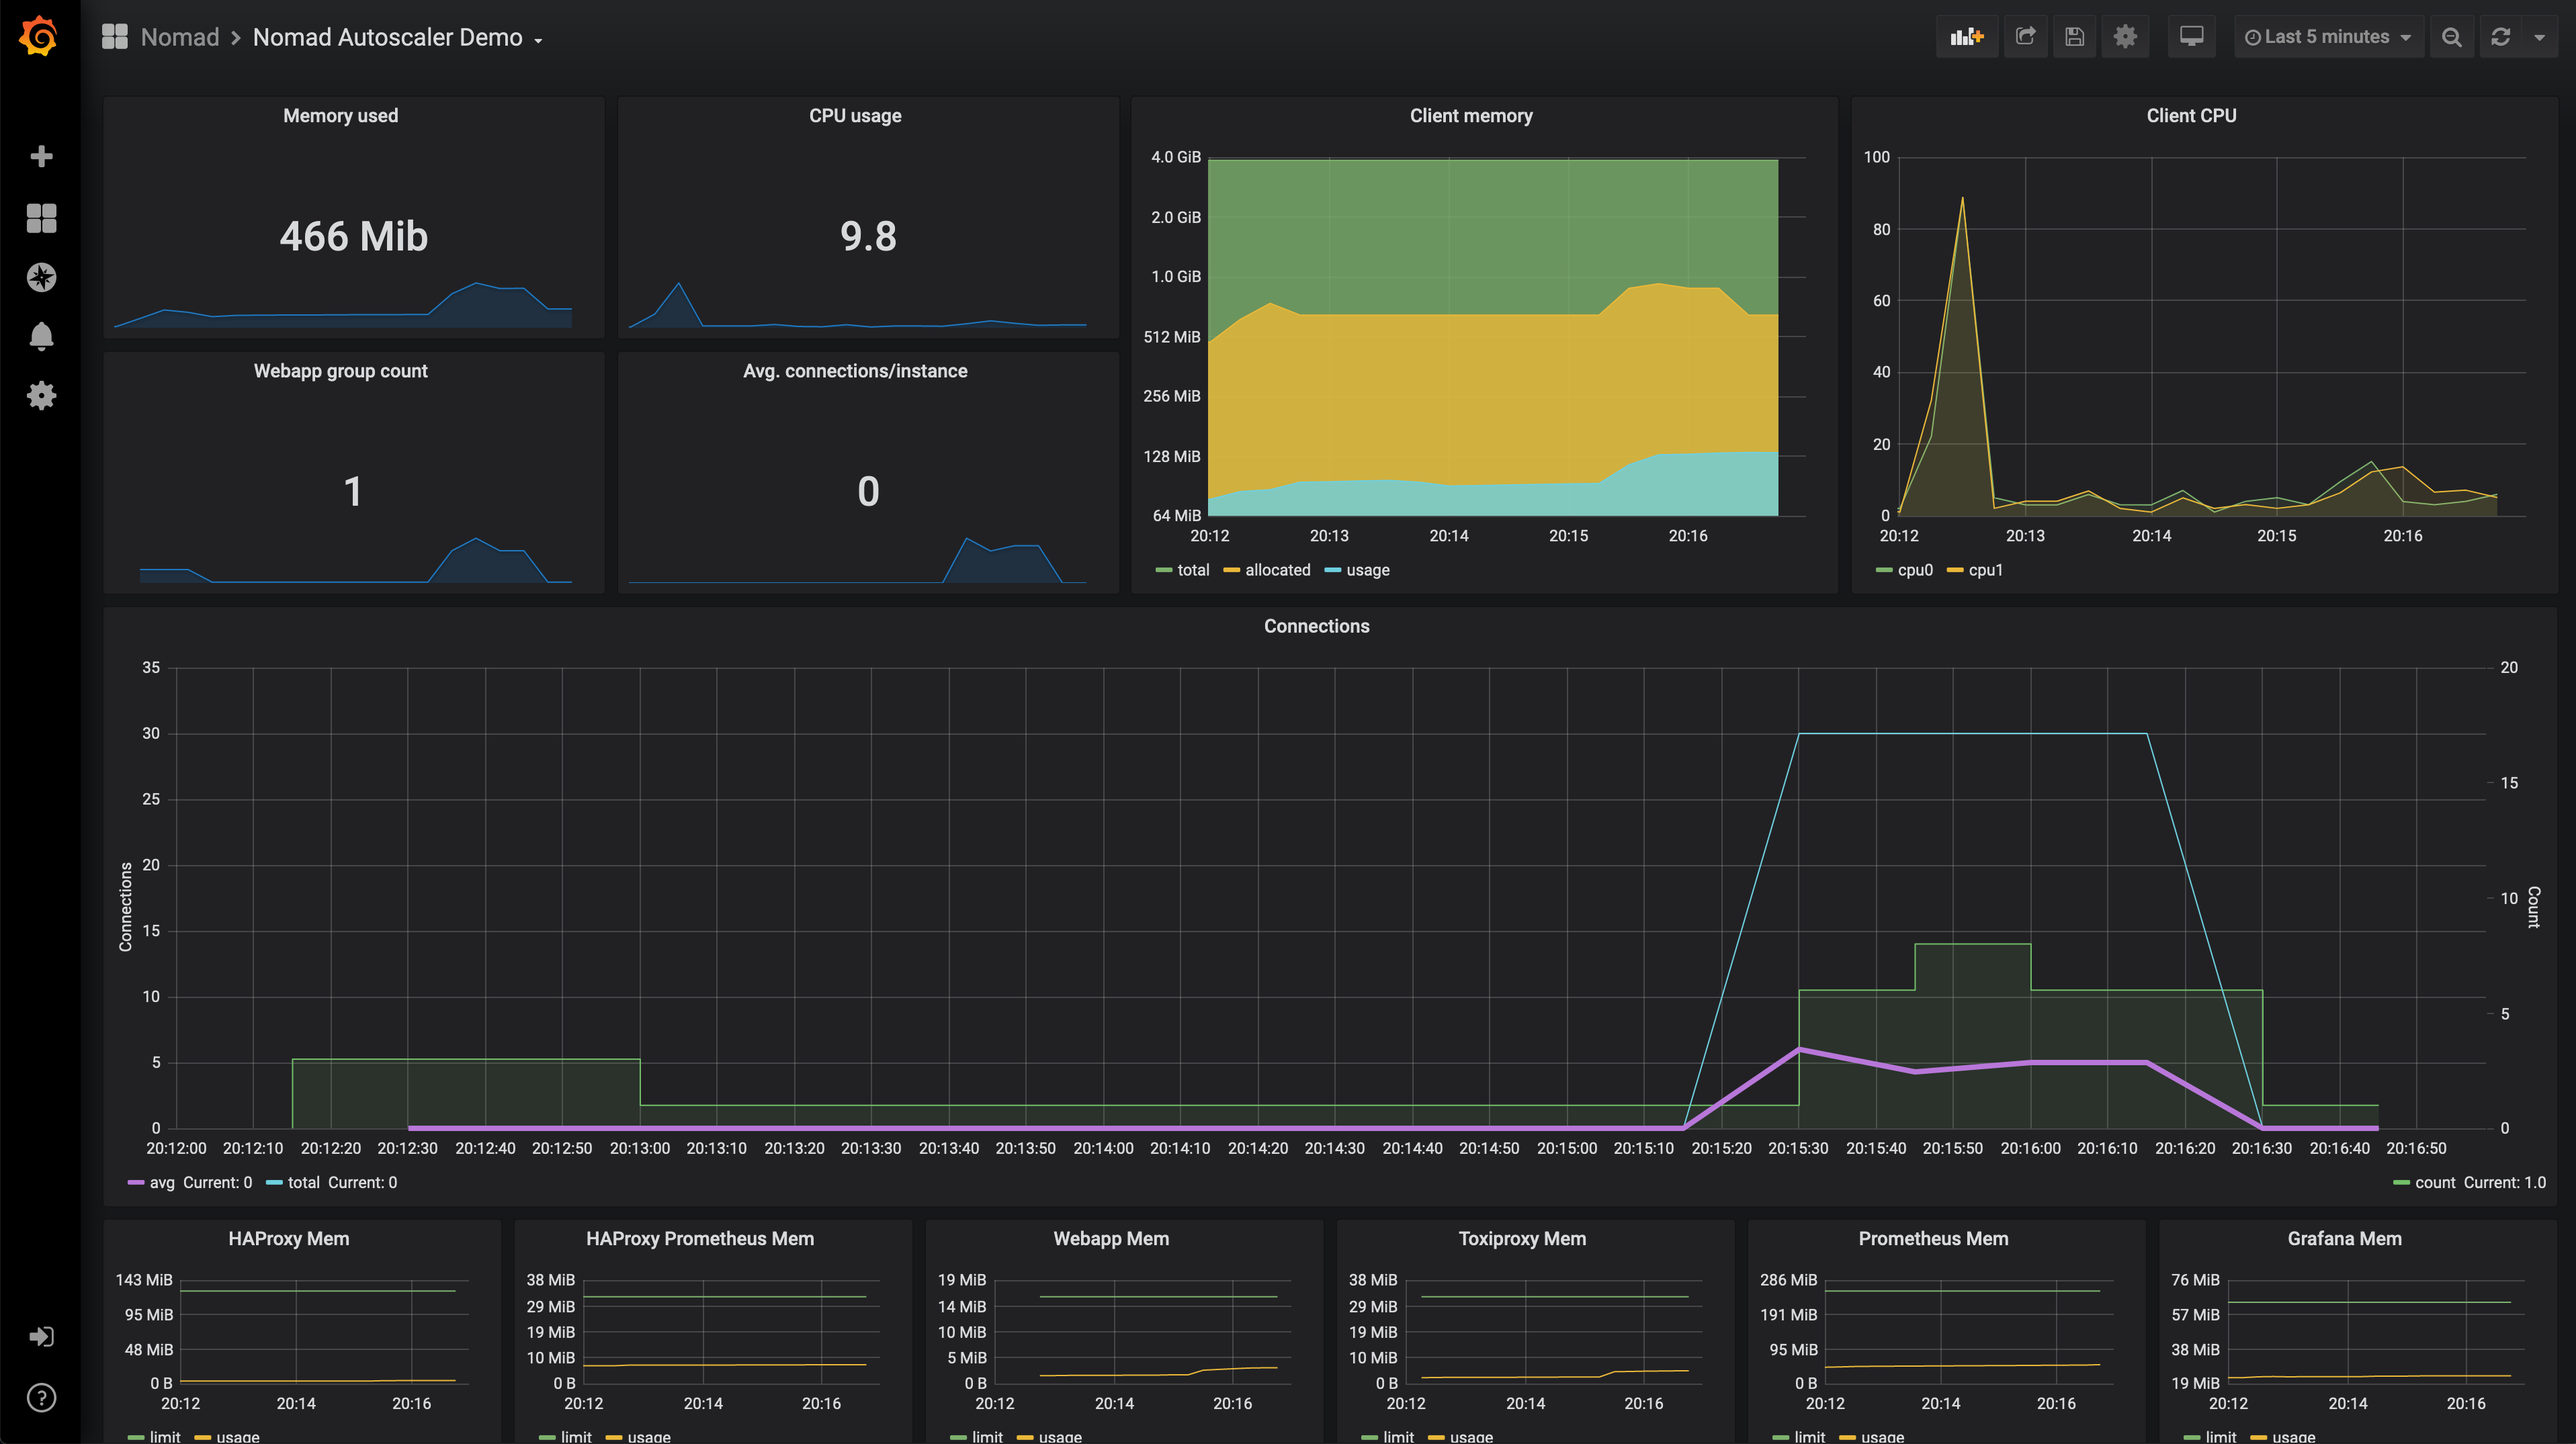
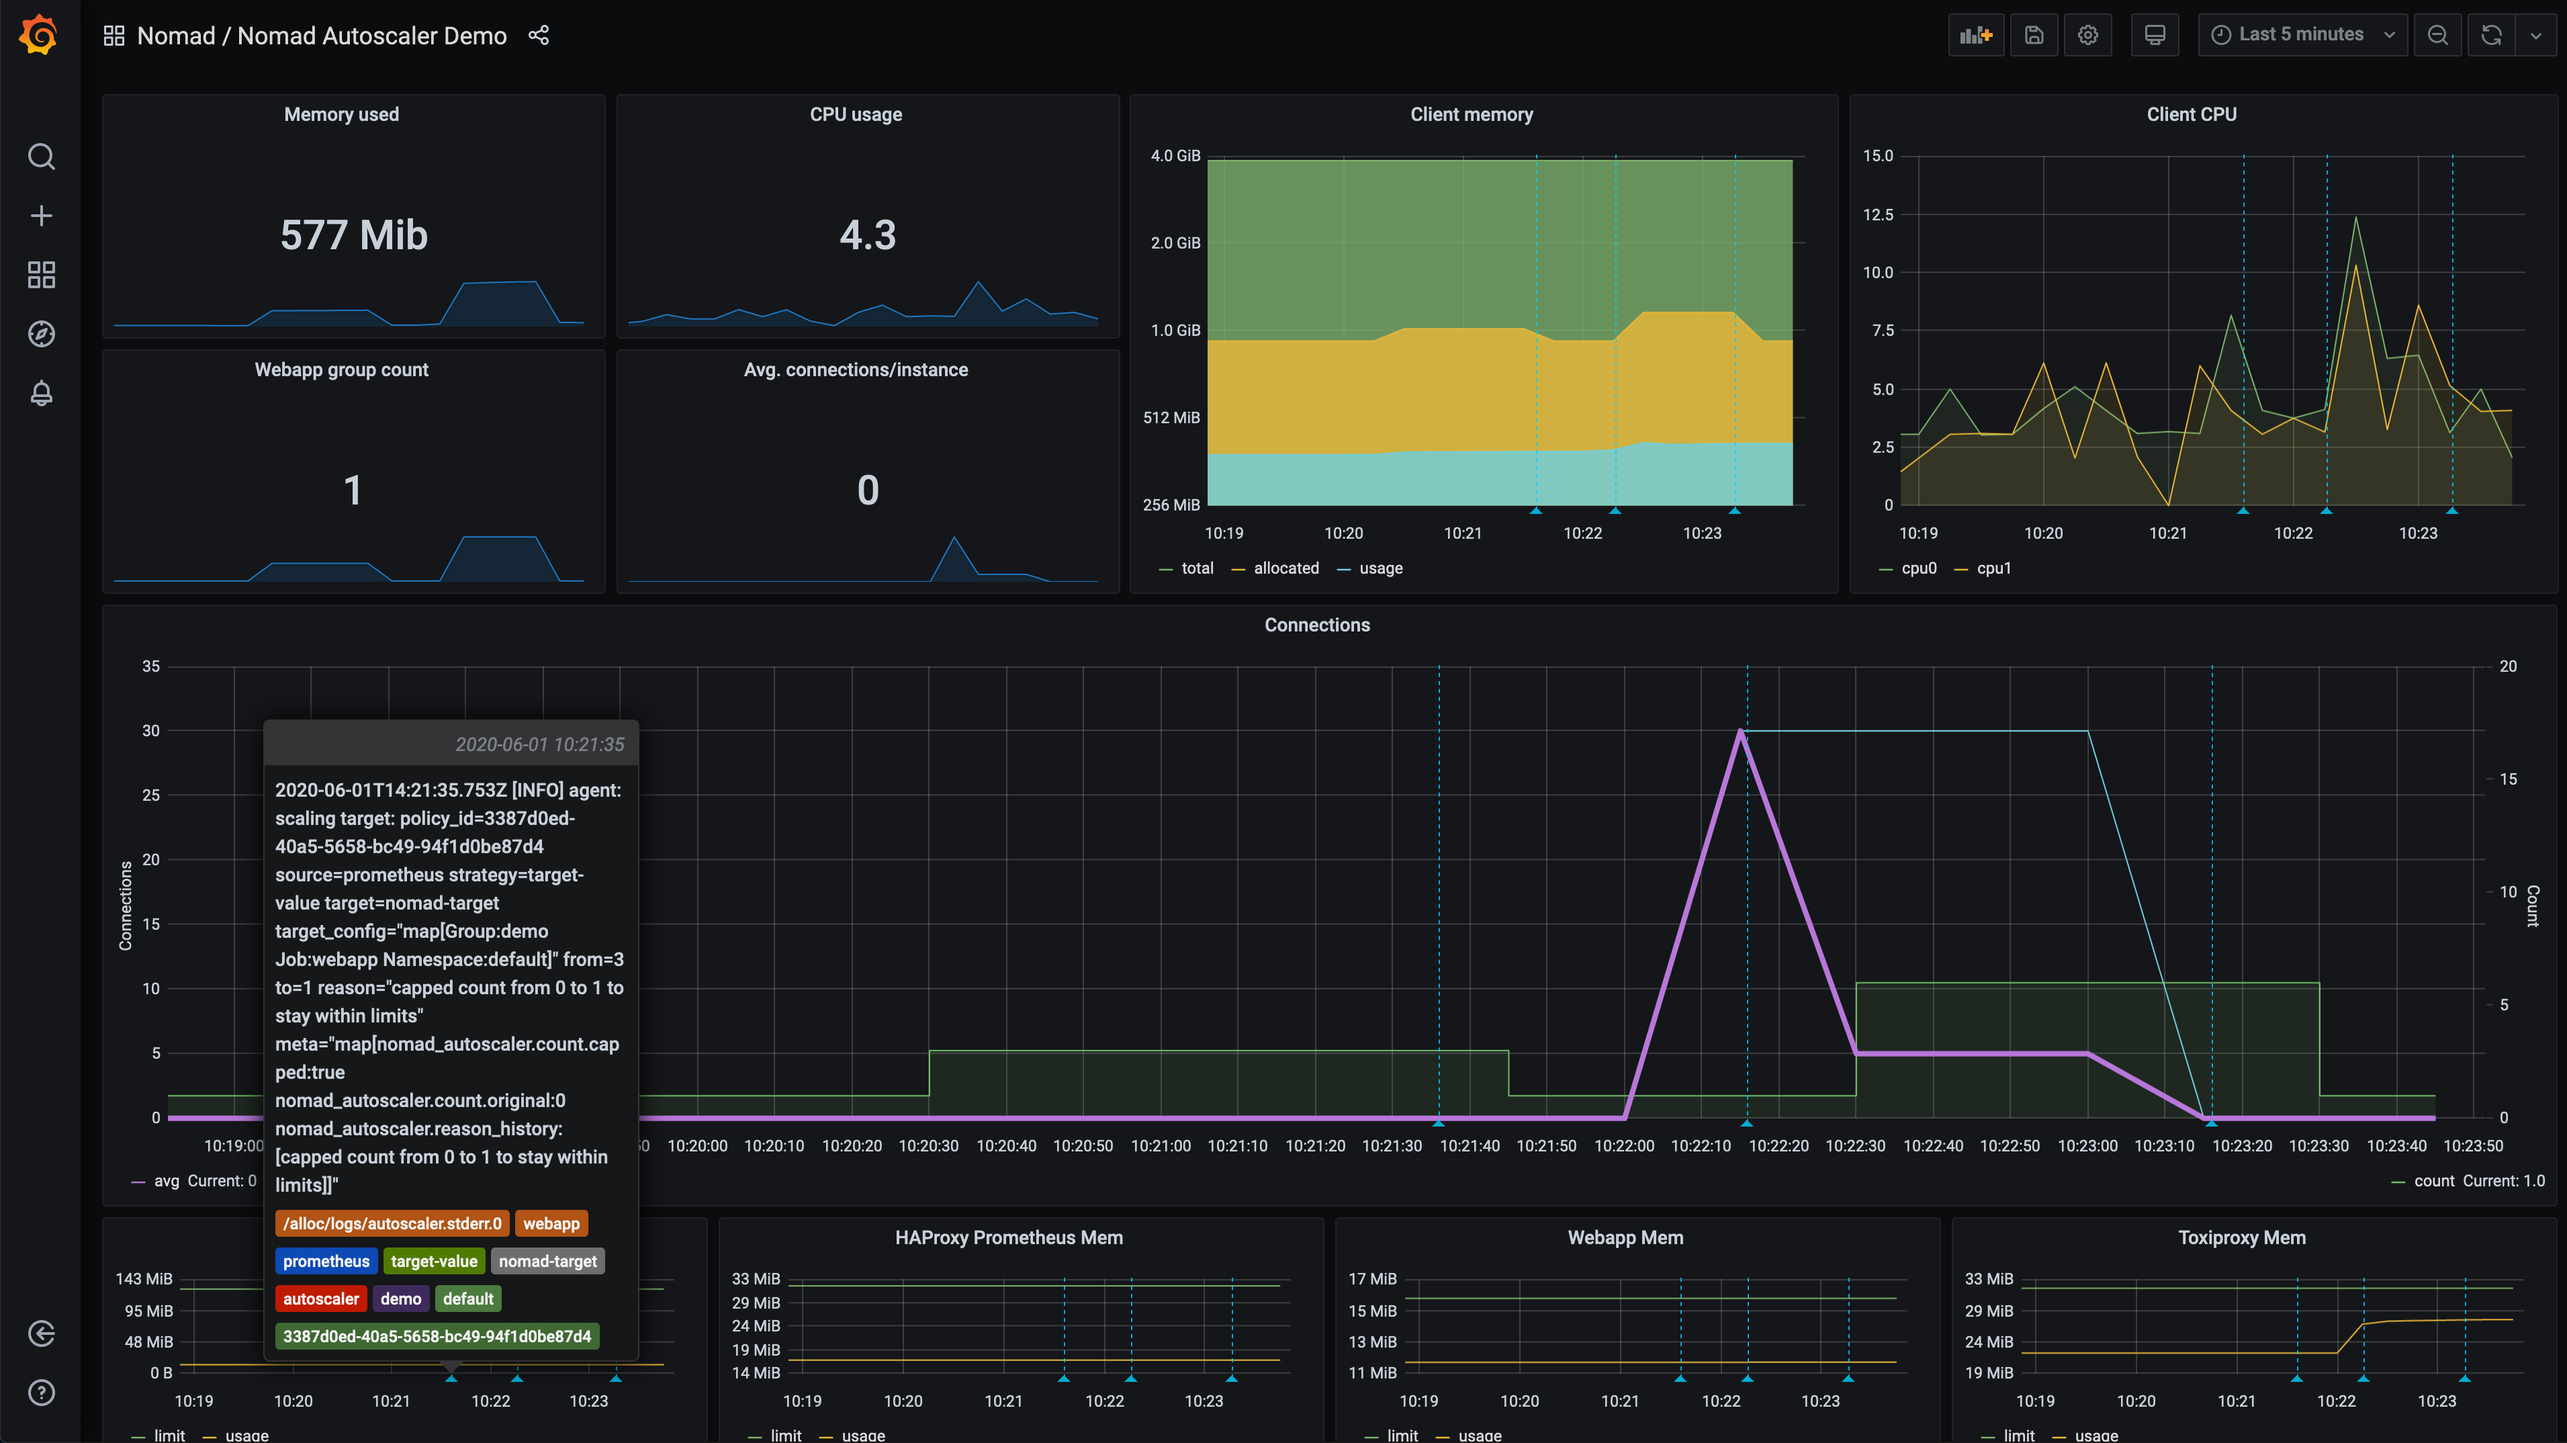
demo: update dashboard screenshot and description

diff --git a/demo/vagrant/README.md b/demo/vagrant/README.md
@@ -119,7 +119,7 @@ The green shaded area in the middle of the dashboard is the `count` of the `weba
 
 You can see that the `count` starts at 3, but drops to 1 after the Autoscaler is started because the average number of connections is at 0. Once we run the `hey` command and start to generate load into our system, the number of connections sharply increases, along with the average.
 
-The Autoscaler notices this spike and reacts a few seconds later by increasing the `count`. This will add more instances of our web app to handle the load and drop the average number of connections to our target value. Once the load is removed, the Autoscaler returns `count` to 1. The log entries for the scaling actions performed by the Autoscaler are automatically added to the graphs as annotations represented by light blue vertical lines.
+The Autoscaler notices this spike and reacts a few seconds later by increasing the `count`. This will add more instances of our web app to handle the load and drop the average number of connections to our target value. Once the load is removed, the Autoscaler returns `count` to 1. The log entries for the scaling actions performed by the Autoscaler are automatically added to the graphs as annotations represented by the dashed light blue vertical lines. Hovering over them will display more details about the scaling event.
 
 The actual values you observe might be different, but the general idea of `count` reacting to the average number of connections should be noticeable.
 
